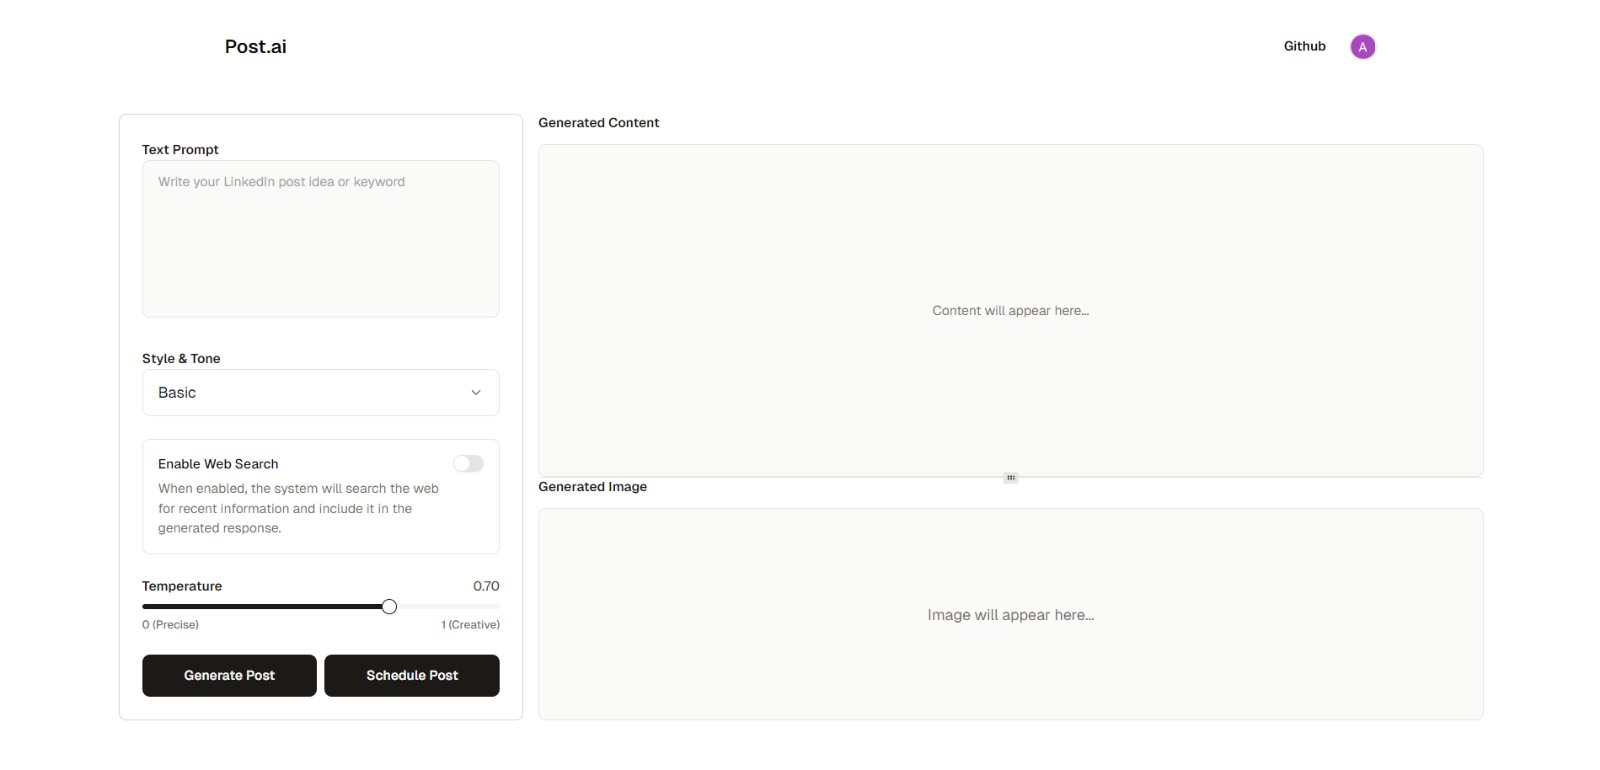
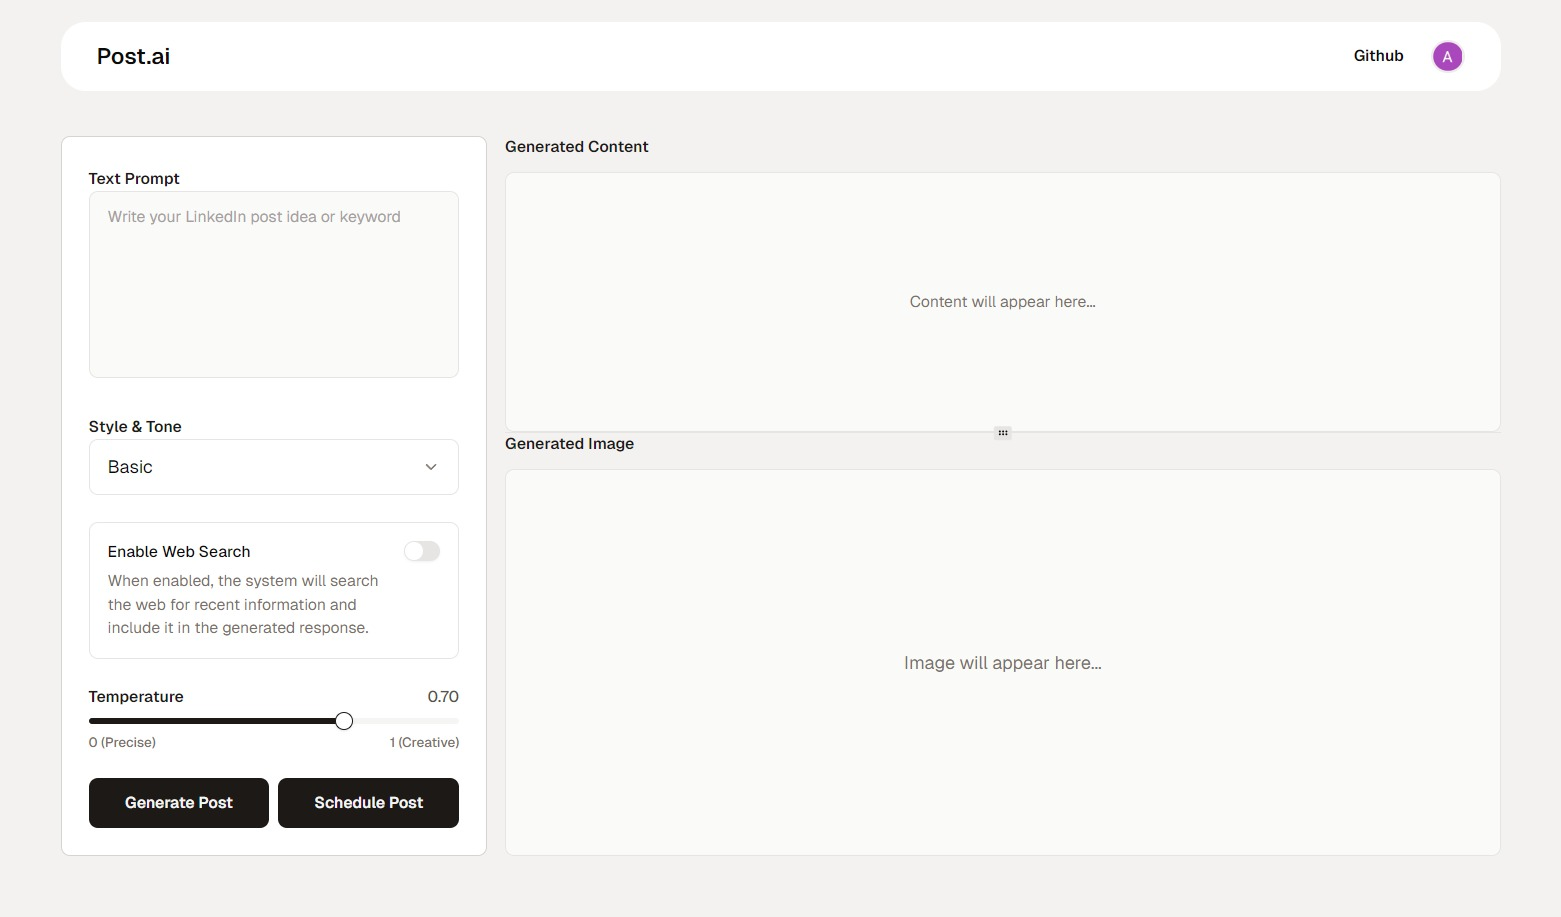
add: scheduling post api logic and minor cleanups

diff --git a/client/src/app/components/generate.tsx b/client/src/app/components/generate.tsx
@@ -1,9 +1,9 @@
 "use client";
 
-import { useState } from "react";
+import * as React from 'react'
 import { toast, Toaster } from "sonner";
 import WebSearchToggle from "./web-search/web-search";
-import ToneSelector from "./tone-selector/tone-selector";
+
 import TemperatureSelector from "./temperature-selector/temperature-selector";
 import Preview from "./preview/preview";
 import { Session } from "next-auth";
@@ -21,21 +21,16 @@ import {
 
 
 export default function Generate({ session }: { session: Session }) {
-  const [query, setQuery] = useState("");
-  const [content, setContent] = useState("");
-  const [image, setImage] = useState("");
+  
+  const [query, setQuery] = React.useState("");
+  const [content, setContent] = React.useState("");
+  const [loadingContent, setLoadingContent] = React.useState(false);
 
-  const [loadingContent, setLoadingContent] = useState(false);
-  const [loadingImage, setLoadingImage] = useState(false);
-  const [isWebSearch, setIsWebSearch] = useState(false)
-
-  const [dateRange, setDateRange] = useState<DateRange | undefined>({
+  const [isWebSearch, setIsWebSearch] = React.useState(false)
+  const [dateRange, setDateRange] = React.useState<DateRange | undefined>({
     from: new Date(new Date().getFullYear(), 0, 12),
     to: addDays(new Date(new Date().getFullYear(), 0, 12), 30),
   })
-
-
-  const [visible, setIsvisible] = useState(false);
 
   const handleGeneratePost = async () => {
     if (!query.trim()) {
@@ -47,7 +42,6 @@ export default function Generate({ session }: { session: Session }) {
       setLoadingContent(true);
       setContent("");
 
-      // Hits the NextJs endpoint to generate content
       toast.info('Post generation started')
       const res = await fetch("/api/generate-content", {
         method: "POST",
@@ -68,15 +62,53 @@ export default function Generate({ session }: { session: Session }) {
     }
   };
 
+  
+  const handleSchedulePost = async () => {
+    if (!content) {
+      toast.error("Generate content first");
+      return;
+    }
 
+    if (!dateRange?.from || !dateRange?.to) {
+      toast.error("Select a valid date range");
+      return;
+    }
 
+    try {
+      toast.info("Scheduling post...");
 
+      const scheduleTimes = [
+        dateRange.from.toISOString(),
+        dateRange.to.toISOString(),
+      ];
+
+      const res = await fetch("/api/schedule-post", {
+        method: "POST",
+        headers: { "Content-Type": "application/json" },
+        body: JSON.stringify({
+          content,
+          access_token: session.accessToken,
+          schedule_times: scheduleTimes,
+        }),
+      });
+
+      const data = await res.json();
+
+      if (!res.ok) {
+        throw new Error(data?.message || "Scheduling failed");
+      }
+
+      toast.success(data.message || "Post scheduled successfully");
+    } catch (err:any) {
+      toast.error(err.message || "Something went wrong");
+    }
+  };
 
   return (
     <>
       <Toaster position="top-center" expand={true} />
 
-      <div className="flex max-w-[90rem] mx-auto font-funnel gap-4 justify-center mt-10">
+      <div className="flex max-w-7xl mx-auto font-funnel gap-4 justify-center mt-10">
         <div className="w-[30%] self-start">
           <div className="w-full rounded-md bg-white border border-stone-300 p-6">
             <div>
@@ -92,7 +124,6 @@ export default function Generate({ session }: { session: Session }) {
               />
             </div>
 
-            <ToneSelector />
             <WebSearchToggle enabled={isWebSearch} onChange={setIsWebSearch} />
             <TemperatureSelector />
 
@@ -128,15 +159,12 @@ export default function Generate({ session }: { session: Session }) {
                     className="w-full"
                     
                     />
-
-                  {/* <p>{dateRange?.from}</p> */}
-
                   <div className="flex justify-end mt-4">
                     <button
                       className="rounded-md bg-stone-900 text-sm font-semibold text-white px-4 py-2"
-                      onClick={() => console.log(dateRange)}
+                      onClick={() => handleSchedulePost()}
                     >
-                      Confirm Selection
+                      Confirm and Schedule
                     </button>
                   </div>
                 </DialogContent>
@@ -148,9 +176,7 @@ export default function Generate({ session }: { session: Session }) {
 
         <Preview
           content={content}
-          image={image}
           loadingContent={loadingContent}
-          loadingImage={loadingImage}
         />
       </div>
     </>

diff --git a/client/src/app/components/preview/preview.tsx b/client/src/app/components/preview/preview.tsx
@@ -10,20 +10,18 @@ import {
 
 export default function Preview({
   content,
-  image,
+
   loadingContent,
-  loadingImage,
 }: {
   content: string;
-  image: string;
   loadingContent: boolean;
-  loadingImage: boolean;
+
 }) {
   return (
     <div className="w-[70%]">
       <ResizablePanelGroup orientation="vertical">
         <ResizablePanel defaultSize={60} minSize={30}>
-          <div className="h-full rounded-md bg-white">
+          <div className="h-full rounded-md">
             <h2 className="text-sm font-semibold text-stone-900 mb-3">
               Generated Content
             </h2>
@@ -45,23 +43,14 @@ export default function Preview({
         <ResizableHandle withHandle className="bg-stone-200" />
 
         <ResizablePanel defaultSize={40} minSize={20}>
-          <div className="h-full rounded-md bg-white ">
+          <div className="h-full rounded-md">
             <h2 className="text-sm font-semibold text-stone-900 mb-3">
               Generated Image
             </h2>
 
             <div className="h-[calc(100%-2rem)] rounded-md border border-stone-200 bg-stone-50 flex items-center justify-center overflow-hidden">
-              {loadingImage ? (
-                <Skeleton className="h-full w-full rounded-md" />
-              ) : image ? (
-                <img
-                  src={image}
-                  alt="Generated"
-                  className="w-full h-full object-cover rounded-md"
-                />
-              ) : (
-                <p className="text-stone-500">Image will appear here...</p>
-              )}
+
+              <p className="text-stone-500">Image generation available soon.</p>
             </div>
           </div>
         </ResizablePanel>

diff --git a/client/src/app/api/generate-content/route.ts b/client/src/app/api/generate-content/route.ts
@@ -1,15 +1,42 @@
 import { NextResponse } from "next/server";
+import {z} from 'zod'
 
+const schema = z.object({
+    query: z.string().min(4),
+    is_web_search: z.boolean(),
+})
 
 export async function POST(req:Request){
-    const {query, is_web_search} = await req.json()
+    try{
+        const body = await req.json()
+        const parsed = schema.safeParse(body)
 
-    const res = await fetch(`${process.env.BACKEND_URL}/api/v1/generate-content`,{
-        method:"POST",
-        headers:{"Content-Type":"application/json"},
-        body: JSON.stringify({query:query, is_web_search:is_web_search})
-    })
+        if(!parsed.success){
+            return NextResponse.json({
+                message:'Invalid request payload'
+            },{status: 400},)
+        }
 
-    const data = await res.json()
-    return NextResponse.json(data)
+        const controller = new AbortController()
+        const timeout =  setTimeout(()=>controller.abort(),30000);
+
+
+        const res = await fetch(`${process.env.BACKEND_URL}/api/v1/generate-content`,{
+            method:"POST",
+            headers:{"Content-Type":"application/json"},
+            body: JSON.stringify(parsed.data),
+            signal:controller.signal
+        })
+
+        clearTimeout(timeout)
+
+        const data = await res.json()
+        return NextResponse.json(data)
+    }
+    catch{
+        return  NextResponse.json({
+                message:'Internal Server Error'
+            },{status: 400},
+        )
+    }
 }

diff --git a/client/src/app/api/schedule-post/route.ts b/client/src/app/api/schedule-post/route.ts
@@ -1,19 +1,36 @@
 import { NextResponse } from "next/server"
+import {z} from 'zod'
+
+const schema = z.object({
+  content:z.string().min(5),
+  access_token:z.string().min(1),
+  schedule_times: z.array(z.string())
+})
 
 export async function POST(req: Request) {
-  const { content, image_base64, delay, accessToken } = await req.json()
+  try{ 
+        const body = await req.json()
+        const parsed = schema.safeParse(body)
 
-  const res = await fetch(`${process.env.BACKEND_URL}/api/v1/post-linkedin`, {
-    method: "POST",
-    headers: { "Content-Type": "application/json" },
-    body: JSON.stringify({
-      content,
-      image_base64,
-      delay: delay,
-      access_token: accessToken,
-    }),
-  })
-
-  const data = await res.json()
-  return NextResponse.json(data)
-}
+        if (!parsed.success) {
+            return NextResponse.json(
+              { message: "Invalid request payload" },
+              { status: 400 }
+            );
+          }
+        
+        const res = await fetch(`${process.env.BACKEND_URL}/api/v1/post-linkedin`, {
+          method: "POST",
+          headers: { "Content-Type": "application/json" },
+          body: JSON.stringify(parsed.data),
+        })
+      
+        const data = await res.json()
+        return NextResponse.json(data);
+    }     
+    catch{
+       return NextResponse.json(
+      { message: "Internal server error" },
+      { status: 500 }
+    );
+    }}

diff --git a/server/prompts/sys_messages.py b/server/prompts/sys_messages.py
@@ -7,12 +7,12 @@ Rules:
 - Use simple professional tone.
 - Add 1-2 relevant emojis maximum.
 - Add 3 to 5 relevant hashtags at the end.
-- Follow the length according to the given user input, if present. If not, then keep it around  70 - 100 words
+- Follow the length according to the given user input, if present. If not, then keep it around  100 words
 - Do not use markdown formatting.
 - Do not use quotes around the post.
 - Do not invent personal achievements, companies, or numbers unless provided by the user.
 
-Input will be a topic or rough idea. Convert it into a clean LinkedIn-ready post.
+Input will be a topic or rough idea. Convert it into a clean LinkedIn-ready post. Give the final content in a markdown format please
 """
 
 
